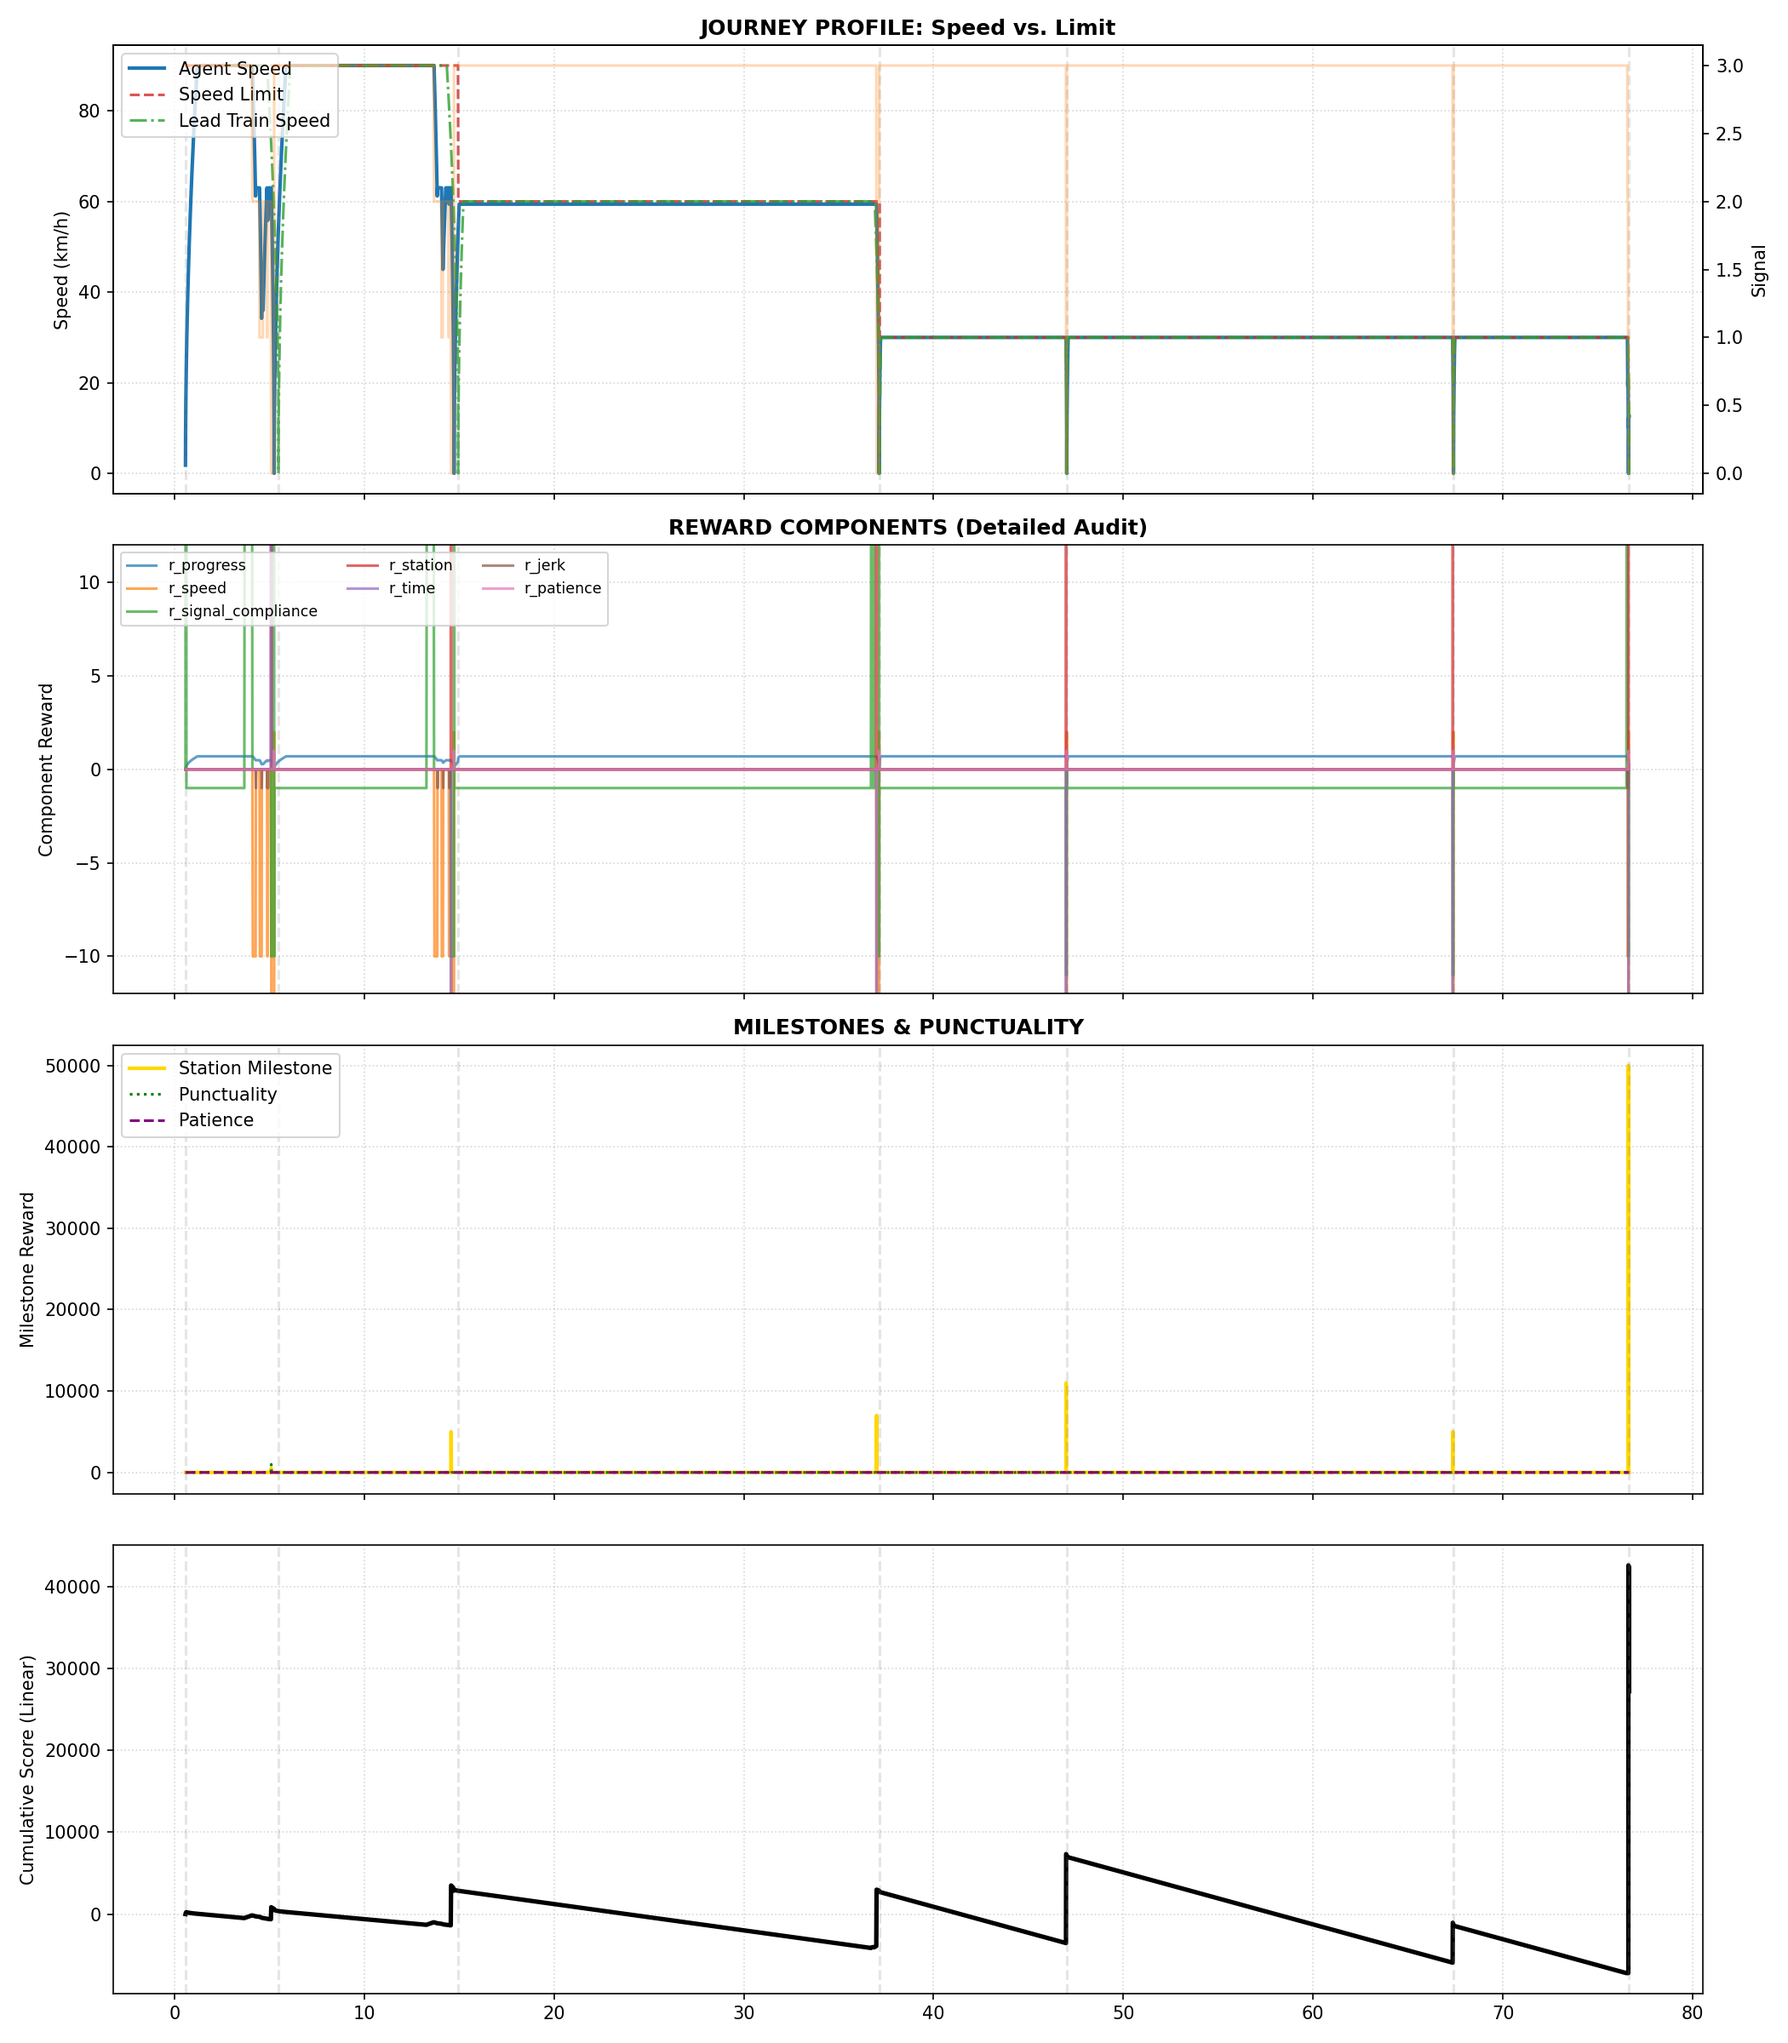
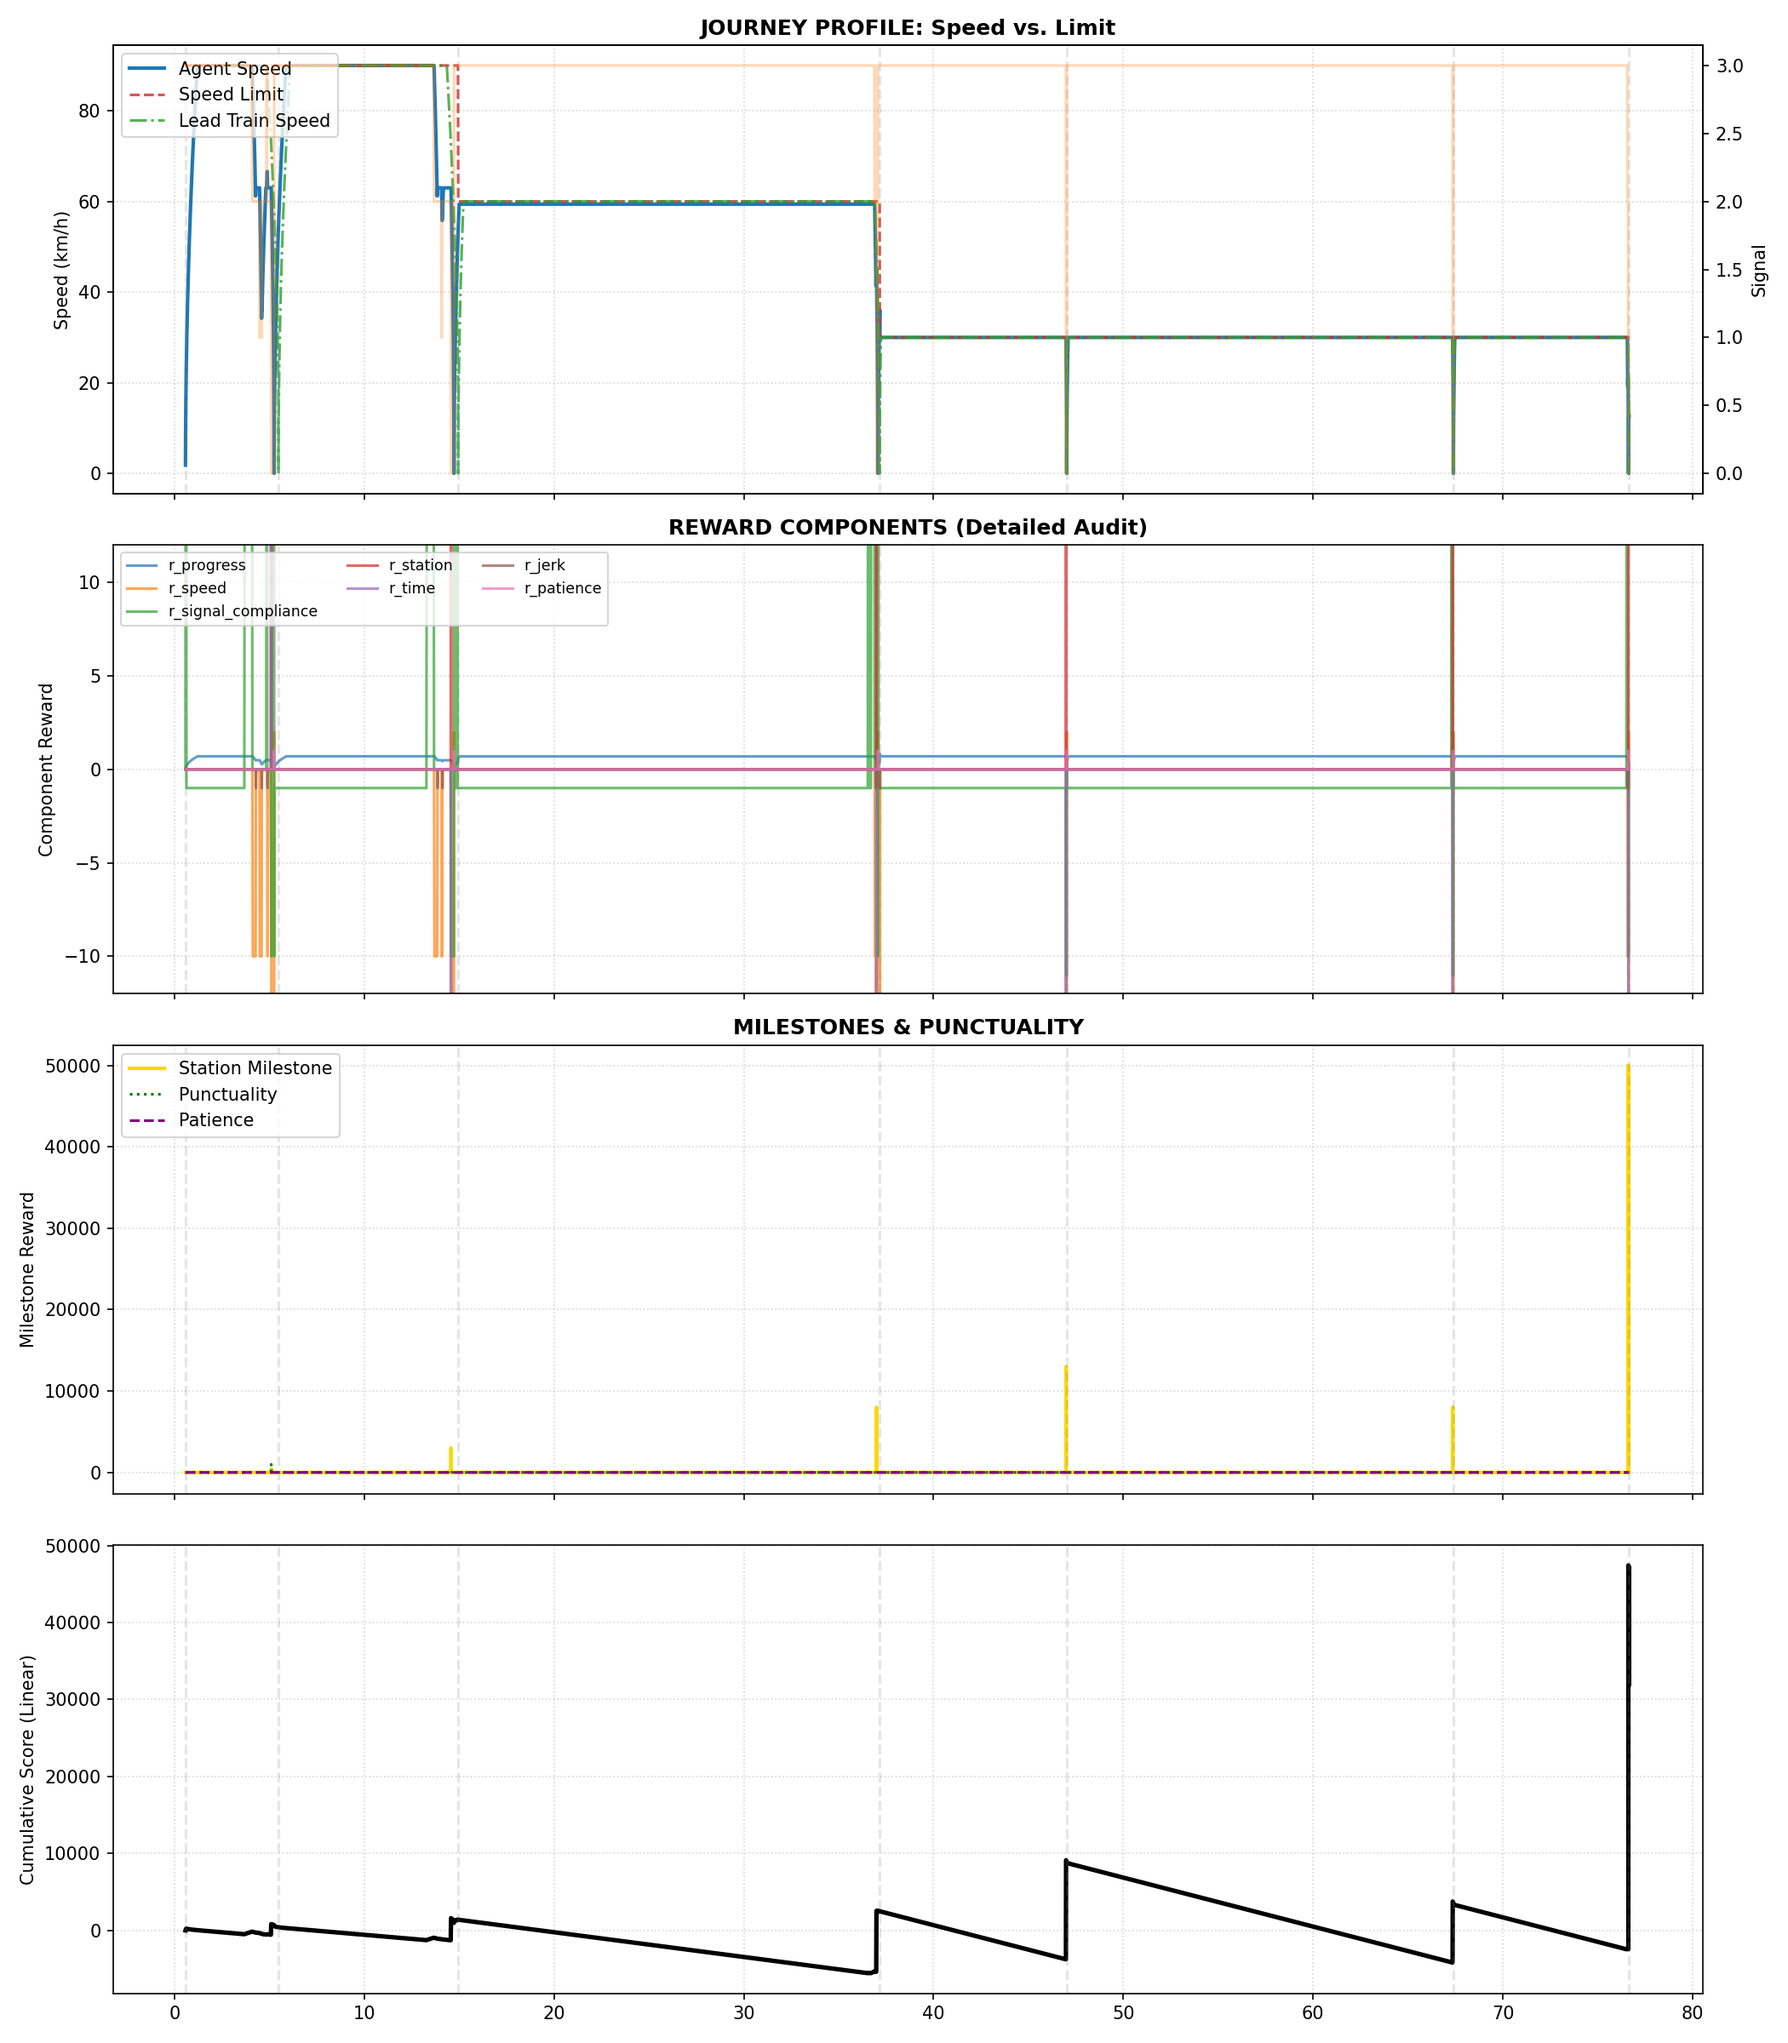
chore: adjust station milestone reward values and update corresponding landscape visualization

diff --git a/reward/reward_function.py b/reward/reward_function.py
@@ -160,11 +160,11 @@ def compute_reward(state: TrainState, info: Dict[str, Any]) -> RewardOutput:
 
     # 7. Station Milestone Reward
     STATION_REWARDS = {
-        1: +500.0,   # Rabka-Zdrój
-        2: +5000.0,   # Mszana Dolna
-        3: +7000.0,   # Tymbark
-        4: +11000.0,   # Limanowa
-        5: +5000.0,   # Marcinkowice
+        1: +400.0,   # Rabka-Zdrój
+        2: +3000.0,   # Mszana Dolna
+        3: +8000.0,   # Tymbark
+        4: +13000.0,   # Limanowa
+        5: +8000.0,   # Marcinkowice
         6: +50000.0,  # Nowy Sącz (terminus — maximum reward)
     }
     if state.reached_new_station:
